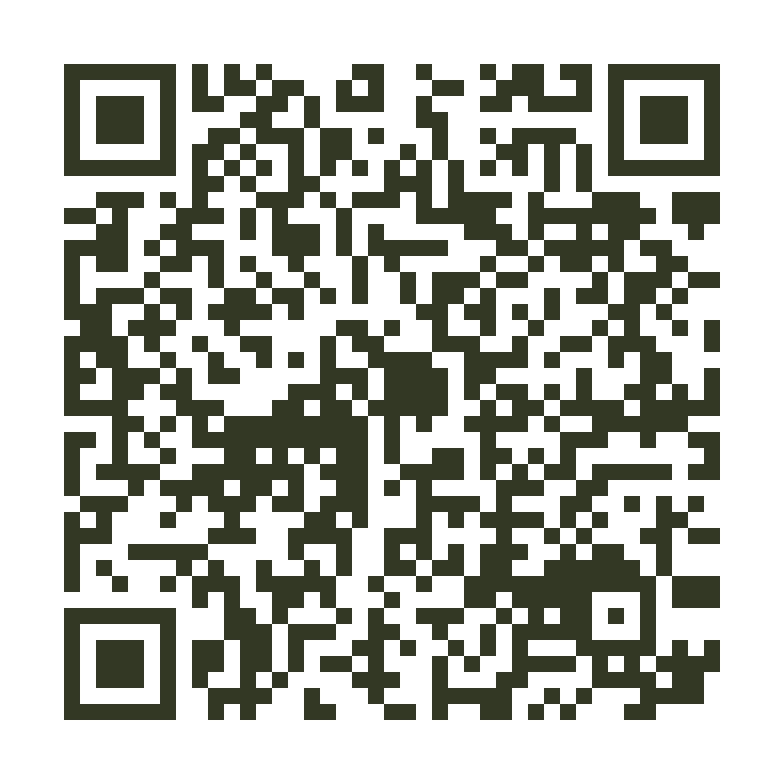
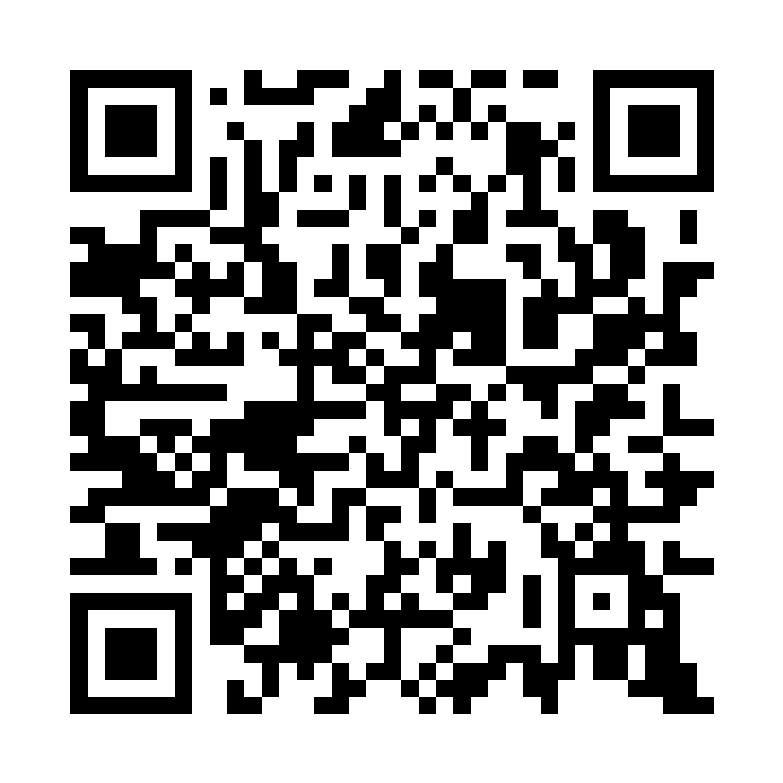
Point QR code to Render site

diff --git a/README.md b/README.md
@@ -44,4 +44,6 @@ Create a **Static Site** with:
 - Build command: `npm ci && npm run build`
 - Publish directory: `dist/client`
 
-`render.yaml` contains the same settings. Generate the printed QR code only after the final Render URL is known.
+`render.yaml` contains the same settings. The live site is
+`https://hilal-oven-menu.onrender.com/`. The PNG and SVG QR files in `public/`
+were decoded and verified against that exact address.
